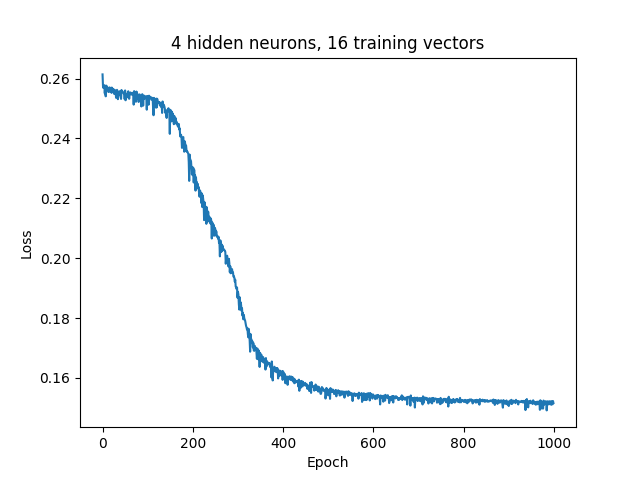
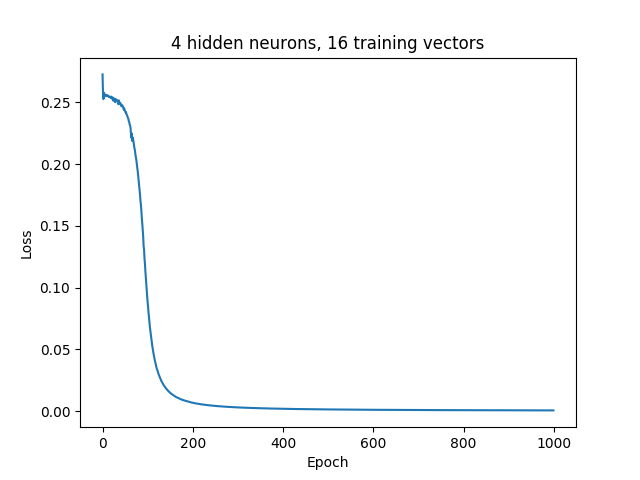
Perfect images

diff --git a/xor-mlp.py b/xor-mlp.py
@@ -25,7 +25,7 @@ base_t_data = [0, 1, 1, 0]
 
 def generate_training_data(n):
     print "Generatic training data..."
-    noise = pd.DataFrame(np.random.normal(loc=0.0, scale=0.5, size=(n * 4, 2)))
+    noise = pd.DataFrame(np.random.normal(loc=0.0, scale=0.1, size=(n * 4, 2)))
     # print noise
     X = pd.DataFrame(base_X_data * n) + noise
     X["offset"] = [-1] * n * 4
@@ -125,7 +125,8 @@ def run():
             print title
 
             model = build_model(hidden_neurons)
-            X = pd.read_csv("data_" + str(data_size) + "_good.csv")
+            # X = pd.read_csv("data_" + str(data_size) + "_good.csv")
+            X = generate_training_data(data_size)
 
             t = X["t"]
             del X["t"]
@@ -134,7 +135,7 @@ def run():
 
             # display_accuracy_image(model, title)
             display_accuracy_image(model, hidden_neurons, data_size)
-            # display_accuracy_epoch_graph(history, hidden_neurons, data_size)
+            display_accuracy_epoch_graph(history, hidden_neurons, data_size)
 
             if write_predictions:
 
